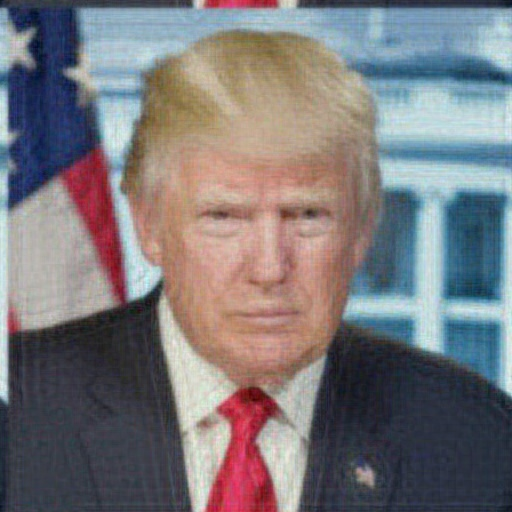
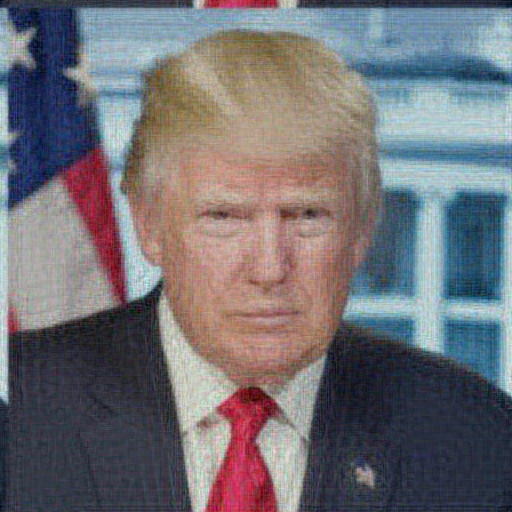
use official mask

diff --git a/main.py b/main.py
@@ -64,7 +64,7 @@ def get_MotionBlur_kernel(size, a, b, T):
     return kernel
 
 
-def restore_Trump(img, R=None, K=150):
+def restore_Trump(img, R=None, K=50):
     """
     :param img: The image of Trump with 3 channels
     :param R: manually measured radius of the inner circle of the PSF kernel
@@ -80,7 +80,7 @@ def restore_Trump(img, R=None, K=150):
     return restored_img
 
 
-def restore_Biden(img, a=-0.0205, b=96 / 57 * 0.0205, T=500, K=200):
+def restore_Biden(img, a=-0.021, b=97 / 57 * 0.021, T=500, K=300):
     """
     :param img: image of Biden with 3 channels
     :param a: proportional to extent of motion blur in vertical direction
@@ -118,13 +118,11 @@ def Wiener_filter(img, kernel, K):
 if __name__ == "__main__":
     Biden = cv2.imread('images/man1.jpg').astype(np.float32) / 255
     Trump = cv2.imread('images/man2.jpg').astype(np.float32) / 255
-    # mask = cv2.imread('images/mask.jpg').astype(np.float32) / 255
-    mask = np.zeros_like(Biden).astype(np.uint8)
-    cv2.ellipse(mask, (265, 256), (85, 100), 0, 0, 360, (1, 1, 1), -1)
+    mask = scio.loadmat('images/mask.mat')['mask'].astype(np.uint8)
+    mask[mask != 0] = 1
+    mask = 1 - mask
     res_Trump = restore_Trump(Trump)
     res_Biden = restore_Biden(Biden)
-    # res_Biden = exposure.equalize_hist(res_Biden, channel_axis=2)
-    # res_Biden = exposure.match_histograms(res_Biden, res_Trump, channel_axis=2)
     cv2.imwrite('restored_Trump.jpg', res_Trump)
     cv2.imwrite('restored_Biden.jpg', res_Biden)
     pyramids = Pyramids()
